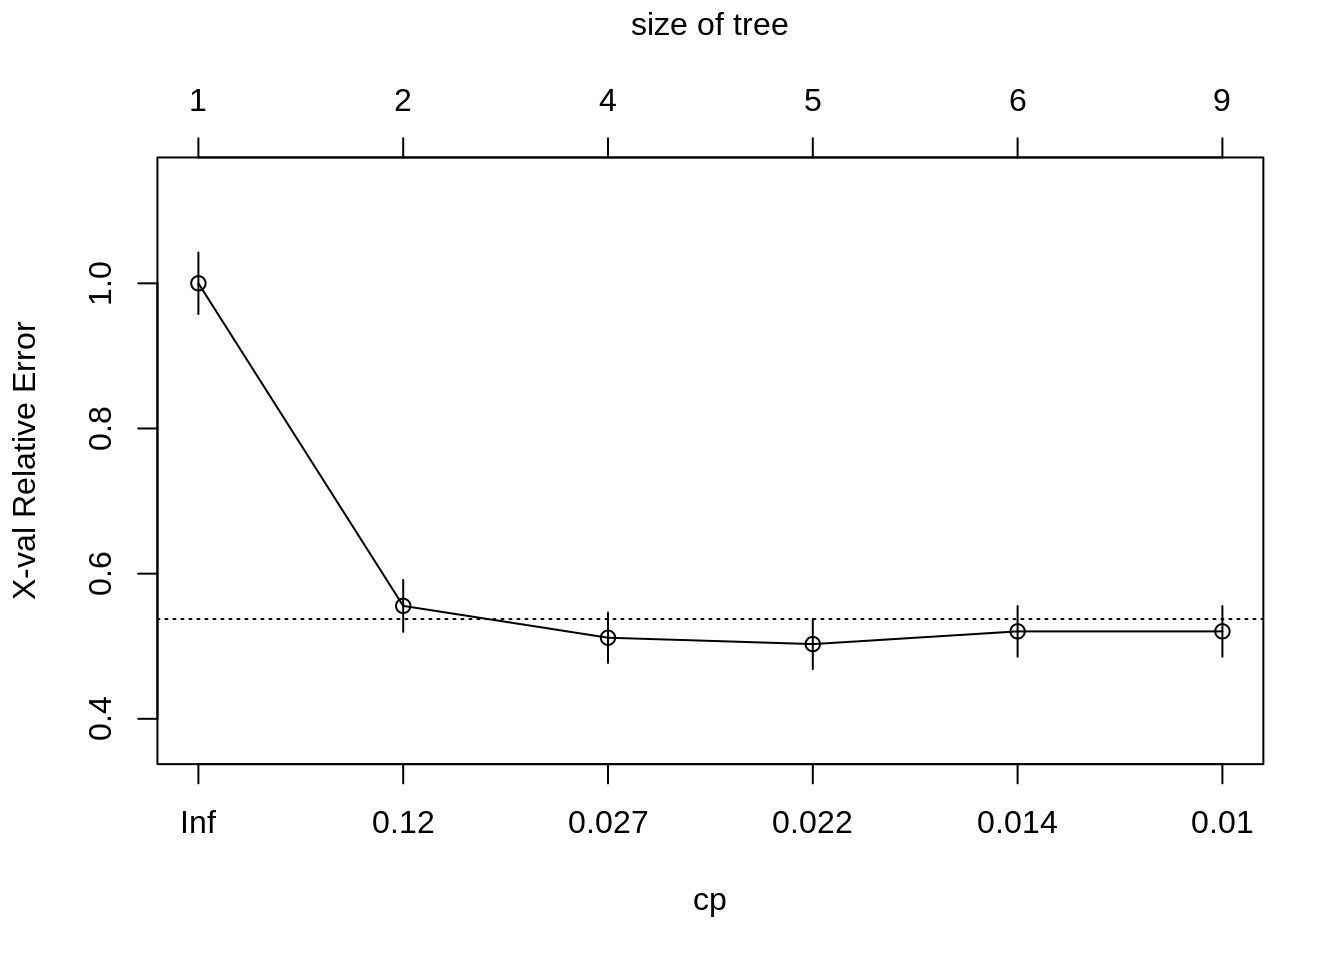
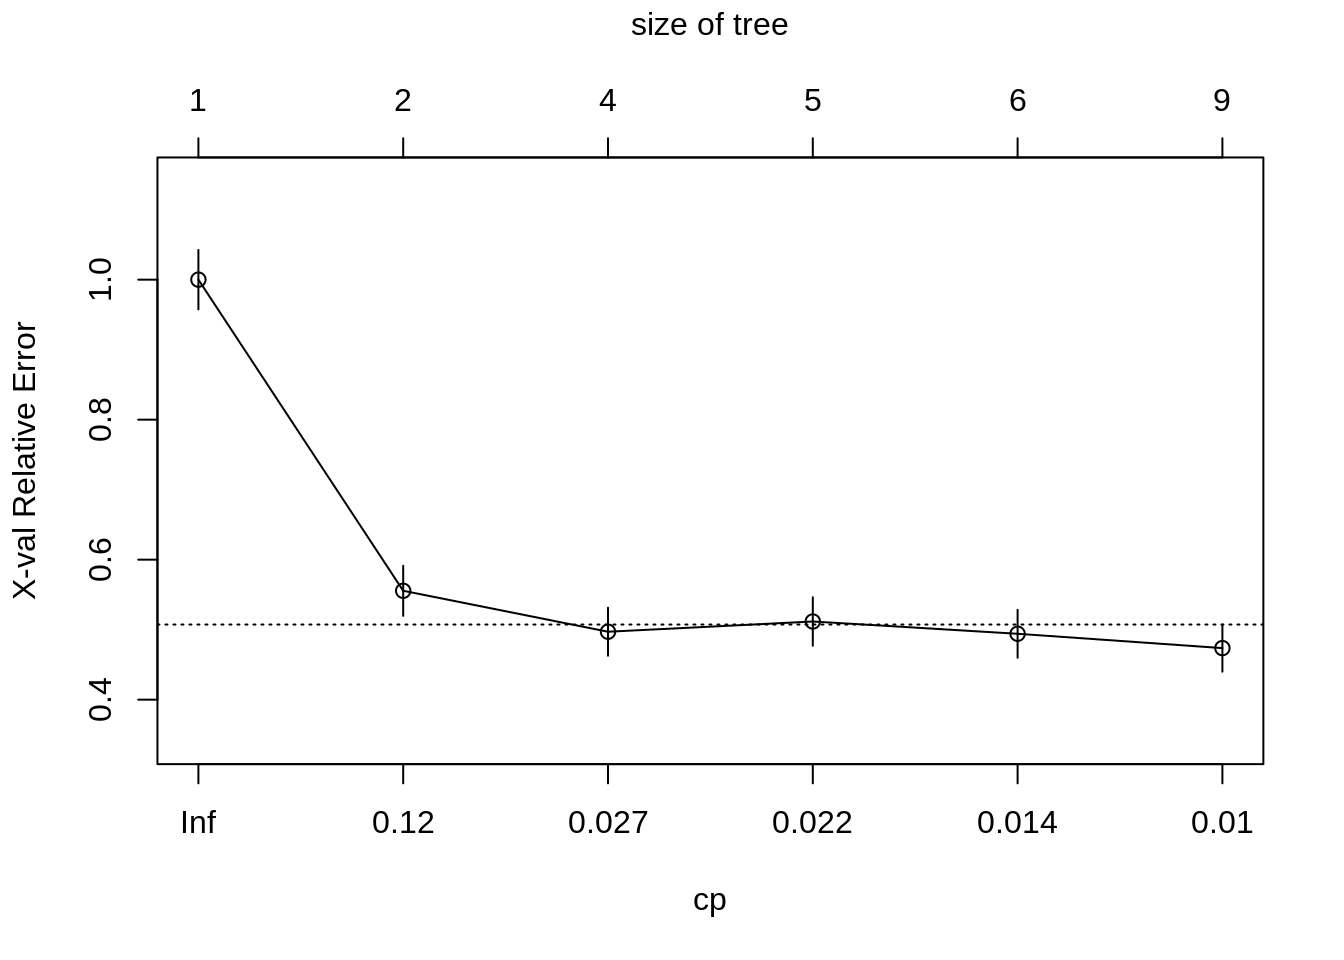
Deploy lebebr01/stat_thinking to github.com/lebebr01/stat_thinking.git:master

diff --git a/docs/classification.html b/docs/classification.html
@@ -324,10 +324,10 @@ titanic &lt;-<span class="st"> </span><span class="kw">bind_rows</span>(titanic_
 ##         CP nsplit rel error  xerror     xstd
 ## 1 0.444444      0   1.00000 1.00000 0.042446
 ## 2 0.030702      1   0.55556 0.55556 0.035750
-## 3 0.023392      3   0.49415 0.51170 0.034675
-## 4 0.020468      4   0.47076 0.50292 0.034448
-## 5 0.010234      5   0.45029 0.52047 0.034897
-## 6 0.010000      8   0.41813 0.52047 0.034897</code></pre>
+## 3 0.023392      3   0.49415 0.49708 0.034295
+## 4 0.020468      4   0.47076 0.51170 0.034675
+## 5 0.010234      5   0.45029 0.49415 0.034217
+## 6 0.010000      8   0.41813 0.47368 0.033663</code></pre>
 <div class="sourceCode"><pre class="sourceCode r"><code class="sourceCode r"><span class="kw">plotcp</span>(class_tree)</code></pre></div>
 <p><img src="05-classification_files/figure-html/unnamed-chunk-6-1.png" width="672" /></p>
 <div class="sourceCode"><pre class="sourceCode r"><code class="sourceCode r">prune_class_tree &lt;-<span class="st"> </span><span class="kw">prune</span>(class_tree, <span class="dt">cp =</span> .<span class="dv">02</span>)

diff --git a/docs/05-classification.md b/docs/05-classification.md
@@ -249,10 +249,10 @@ printcp(class_tree)
 ##         CP nsplit rel error  xerror     xstd
 ## 1 0.444444      0   1.00000 1.00000 0.042446
 ## 2 0.030702      1   0.55556 0.55556 0.035750
-## 3 0.023392      3   0.49415 0.51170 0.034675
-## 4 0.020468      4   0.47076 0.50292 0.034448
-## 5 0.010234      5   0.45029 0.52047 0.034897
-## 6 0.010000      8   0.41813 0.52047 0.034897
+## 3 0.023392      3   0.49415 0.49708 0.034295
+## 4 0.020468      4   0.47076 0.51170 0.034675
+## 5 0.010234      5   0.45029 0.49415 0.034217
+## 6 0.010000      8   0.41813 0.47368 0.033663
 ```
 
 ```r
